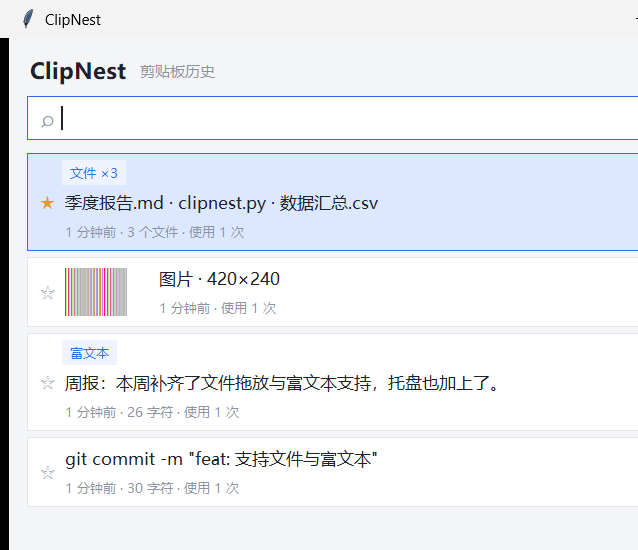
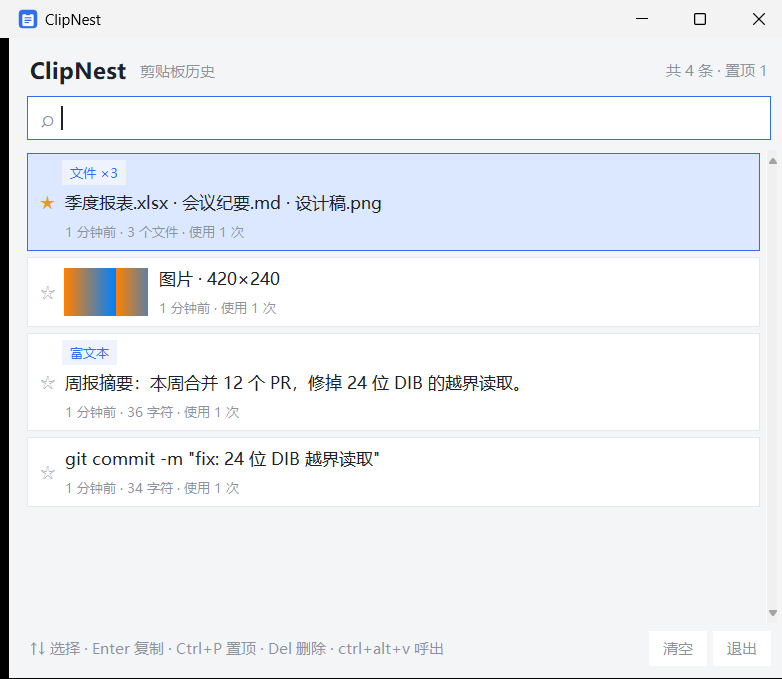
打包成单文件 exe，补图标与双击启动脚本

diff --git a/tools/make_icon.py b/tools/make_icon.py
@@ -1,0 +1,159 @@
+"""生成 docs/clipnest.ico。
+
+不引第三方库，按几何形状在 4 倍超采样网格上逐点判断覆盖，再缩回目标尺寸。
+用法：python tools/make_icon.py
+"""
+
+from __future__ import annotations
+
+import struct
+import sys
+from pathlib import Path
+
+ROOT = Path(__file__).resolve().parents[1]
+sys.path.insert(0, str(ROOT))
+
+from clipnest.imageutil import encode_png  # noqa: E402
+
+BLUE = (0x2F, 0x6F, 0xED)
+WHITE = (0xFF, 0xFF, 0xFF)
+SIZES = (16, 24, 32, 48, 64, 128, 256)
+SS = 4
+
+
+def _inside_round_rect(px: float, py: float, x0: float, y0: float,
+                       x1: float, y1: float, r: float) -> bool:
+    if px < x0 or px > x1 or py < y0 or py > y1:
+        return False
+    cx = min(max(px, x0 + r), x1 - r)
+    cy = min(max(py, y0 + r), y1 - r)
+    return (px - cx) ** 2 + (py - cy) ** 2 <= r * r
+
+
+# 画布用 0~1 归一化坐标，方便按尺寸缩放
+BACKDROP = (0.02, 0.02, 0.98, 0.98, 0.22)
+BOARD = (0.21, 0.26, 0.79, 0.86, 0.07)
+CLIP = (0.395, 0.175, 0.605, 0.315, 0.05)
+LINES = (
+    (0.32, 0.415, 0.68, 0.472, 0.028),
+    (0.32, 0.535, 0.68, 0.592, 0.028),
+    (0.32, 0.655, 0.565, 0.712, 0.028),
+)
+
+# 16/24 像素下三行细节会糊成一条，换成两行更大的线、板子也让出更多蓝边
+BOARD_SMALL = (0.235, 0.285, 0.765, 0.845, 0.06)
+CLIP_SMALL = (0.385, 0.17, 0.615, 0.315, 0.05)
+LINES_SMALL = (
+    (0.335, 0.455, 0.665, 0.545, 0.045),
+    (0.335, 0.625, 0.585, 0.715, 0.045),
+)
+
+
+def layout(size: int):
+    if size <= 24:
+        return BOARD_SMALL, CLIP_SMALL, LINES_SMALL
+    return BOARD, CLIP, LINES
+
+
+def color_at(px: float, py: float, shapes) -> tuple[int, int, int] | None:
+    board, clip, lines = shapes
+    if _inside_round_rect(px, py, *clip):
+        return BLUE
+    if any(_inside_round_rect(px, py, *ln) for ln in lines):
+        return BLUE
+    if _inside_round_rect(px, py, *board):
+        return WHITE
+    if _inside_round_rect(px, py, *BACKDROP):
+        return BLUE
+    return None
+
+
+def render(size: int) -> bytes:
+    n = size * SS
+    shapes = layout(size)
+    out = bytearray(size * size * 4)
+    step = 1.0 / n
+    for y in range(size):
+        for x in range(size):
+            counts: dict[tuple[int, int, int], int] = {}
+            base_y = y * SS
+            base_x = x * SS
+            for sy in range(SS):
+                py = (base_y + sy + 0.5) * step
+                for sx in range(SS):
+                    px = (base_x + sx + 0.5) * step
+                    c = color_at(px, py, shapes)
+                    if c is not None:
+                        counts[c] = counts.get(c, 0) + 1
+            if not counts:
+                continue
+            hits = sum(counts.values())
+            off = (y * size + x) * 4
+            out[off] = sum(c[0] * k for c, k in counts.items()) // hits
+            out[off + 1] = sum(c[1] * k for c, k in counts.items()) // hits
+            out[off + 2] = sum(c[2] * k for c, k in counts.items()) // hits
+            out[off + 3] = round(255 * hits / (SS * SS))
+    return bytes(out)
+
+
+def _bmp_entry(size: int, rgba: bytes) -> bytes:
+    pixels = bytearray()
+    for y in range(size - 1, -1, -1):
+        row = rgba[y * size * 4:(y + 1) * size * 4]
+        for x in range(size):
+            r, g, b, a = row[x * 4:x * 4 + 4]
+            pixels += bytes((b, g, r, a))
+
+    mask_stride = ((size + 31) // 32) * 4
+    mask = bytearray()
+    for y in range(size - 1, -1, -1):
+        bits = bytearray(mask_stride)
+        for x in range(size):
+            if rgba[(y * size + x) * 4 + 3] == 0:
+                bits[x // 8] |= 0x80 >> (x % 8)
+        mask += bits
+
+    header = struct.pack("<IiiHHIIiiII", 40, size, size * 2, 1, 32, 0,
+                         len(pixels) + len(mask), 0, 0, 0, 0)
+    return header + bytes(pixels) + bytes(mask)
+
+
+def build_ico(images: list[tuple[int, bytes]]) -> bytes:
+    head = struct.pack("<HHH", 0, 1, len(images))
+    offset = 6 + 16 * len(images)
+    entries = b""
+    body = b""
+    for size, rgba in images:
+        if size >= 256:
+            # 256 档按惯例存 PNG，否则单个条目就是 256KB 的裸位图
+            entry = encode_png(size, size, rgba)
+            dim = 0
+        else:
+            entry = _bmp_entry(size, rgba)
+            dim = size
+        entries += struct.pack("<BBBBHHII", dim, dim, 0, 0, 1, 32,
+                               len(entry), offset + len(body))
+        body += entry
+    return head + entries + body
+
+
+def main() -> None:
+    images = []
+    for size in SIZES:
+        rgba = render(size)
+        images.append((size, rgba))
+        print(f"  {size}x{size} ok")
+
+    docs = ROOT / "docs"
+    docs.mkdir(exist_ok=True)
+    ico = build_ico(images)
+    (docs / "clipnest.ico").write_bytes(ico)
+    print(f"写出 docs/clipnest.ico  {len(ico)} 字节")
+
+    preview = render(128)
+    (docs / "icon-preview.png").write_bytes(encode_png(128, 128, preview))
+    print("写出 docs/icon-preview.png")
+
+
+if __name__ == "__main__":
+    main()

diff --git a/clipnest/app.py b/clipnest/app.py
@@ -9,6 +9,7 @@ import sys
 import threading
 import time
 import tkinter as tk
+from pathlib import Path
 
 from . import winclip
 from .config import Config, db_path
@@ -27,6 +28,21 @@ MUTED = "#8b939e"
 ACCENT = "#2f6fed"
 STAR = "#e39b2f"
 FONT = "Microsoft YaHei UI"
+
+
+def asset(name: str) -> Path | None:
+    """在打包后的临时目录或源码目录中找随包资源。"""
+    bases = []
+    meipass = getattr(sys, "_MEIPASS", None)
+    if meipass:
+        bases.append(Path(meipass))
+    here = Path(__file__).resolve()
+    bases += [here.parent, here.parents[1] / "docs"]
+    for base in bases:
+        candidate = base / name
+        if candidate.exists():
+            return candidate
+    return None
 
 
 def human_time(ts: float) -> str:
@@ -175,6 +191,12 @@ class ClipNestApp:
         sw, sh = root.winfo_screenwidth(), root.winfo_screenheight()
         root.geometry(f"{w}x{h}+{max(0, (sw - w) // 2)}+{max(0, (sh - h) // 3)}")
         root.minsize(560, 420)
+        icon = asset("clipnest.ico")
+        if icon:
+            try:
+                root.iconbitmap(default=str(icon))
+            except tk.TclError:
+                pass
         root.protocol("WM_DELETE_WINDOW", self.hide)
 
         header = tk.Frame(root, bg=BG)

diff --git a/README.md b/README.md
@@ -6,6 +6,12 @@ Windows 剪贴板历史管理器。后台记录复制过的文字、图片、文
 
 数据存在本地 SQLite 文件里，不联网。只用 Python 标准库，不需要装第三方包。
 
+## 下载
+
+不想装 Python 的话，去 [Releases](https://github.com/haha5274/clipnest/releases/latest) 下载 `ClipNest.exe`，双击就能用，不用解压也不用安装。
+
+exe 没有代码签名，第一次运行 Windows 会拦一下：点「更多信息」→「仍要运行」。介意这一步就从下面的源码方式跑。
+
 ## 功能
 
 - 记录文本、图片、文件和富文本，图片显示缩略图，复制时按原格式写回
@@ -19,7 +25,7 @@ Windows 剪贴板历史管理器。后台记录复制过的文字、图片、文
 - 再开一个实例不会报错，它会把已经运行的那个窗口叫出来
 - 默认保留 500 条，超出后淘汰最旧的
 
-## 运行
+## 从源码运行
 
 需要 Windows 和 Python 3.9 以上（[官方安装包](https://www.python.org/downloads/windows/) 自带 tkinter）。
 
@@ -29,9 +35,20 @@ cd clipnest
 python -m clipnest
 ```
 
-双击 `run.pyw` 可以不弹控制台窗口。也可以 `pip install .` 装成命令，`clipnest --hidden` 启动即隐藏。
+不想开终端就双击 `run.bat`，它自己找 `pythonw` 静默启动；找不到 Python 会提示去哪里装。`pip install .` 装成命令后，`clipnest --hidden` 可以启动即隐藏。
 
 窗口出来后去别处复制点东西，再按 `Ctrl+Alt+V` 试试。
+
+## 打包 exe
+
+```bash
+pip install pyinstaller
+build.bat
+```
+
+产物是 `dist\ClipNest.exe`，单文件免安装，里面只有标准库和 tkinter。
+
+图标不是外部图片，是 `tools/make_icon.py` 现算出来的：按几何形状在 4 倍超采样网格上逐点判断覆盖，再缩到 16 到 256 七个尺寸，256 那档存 PNG（否则单个条目就是 256 KB 裸位图），最后手写 ICO 结构拼起来。改配色改文件顶部的常量就行。
 
 ## 快捷键
 
@@ -96,8 +113,14 @@ clipnest/
 │   ├── search.py       # 匹配打分
 │   └── config.py       # 配置读写
 ├── tests/
-├── run.pyw
-└── docs/screenshot.png
+├── tools/make_icon.py  # 生成 docs/clipnest.ico
+├── docs/
+│   ├── clipnest.ico
+│   └── screenshot.png
+├── run.pyw             # 双击启动，无控制台
+├── run.bat             # 双击启动，自动找 pythonw
+├── build.bat           # 打包成 dist\ClipNest.exe
+└── pyproject.toml
 ```
 
 ## 测试
@@ -116,6 +139,7 @@ python -m unittest discover -s tests -v
 - 图片只处理 `CF_DIB`，`CF_BITMAP` 之类没做
 - 托盘图标是运行时画的 16×16 位图，125% 以上缩放时会有点糊；系统托盘本身缩放的话只能交给 Windows 拉伸
 - 单个条目上限 512 KB（`max_text_kb`），超了跳过不记
+- 单文件 exe 每次启动都要把内容解压到临时目录，冷启动 1~2 秒；它是常驻后台的，一次启动就够了
 
 ## TODO
 
